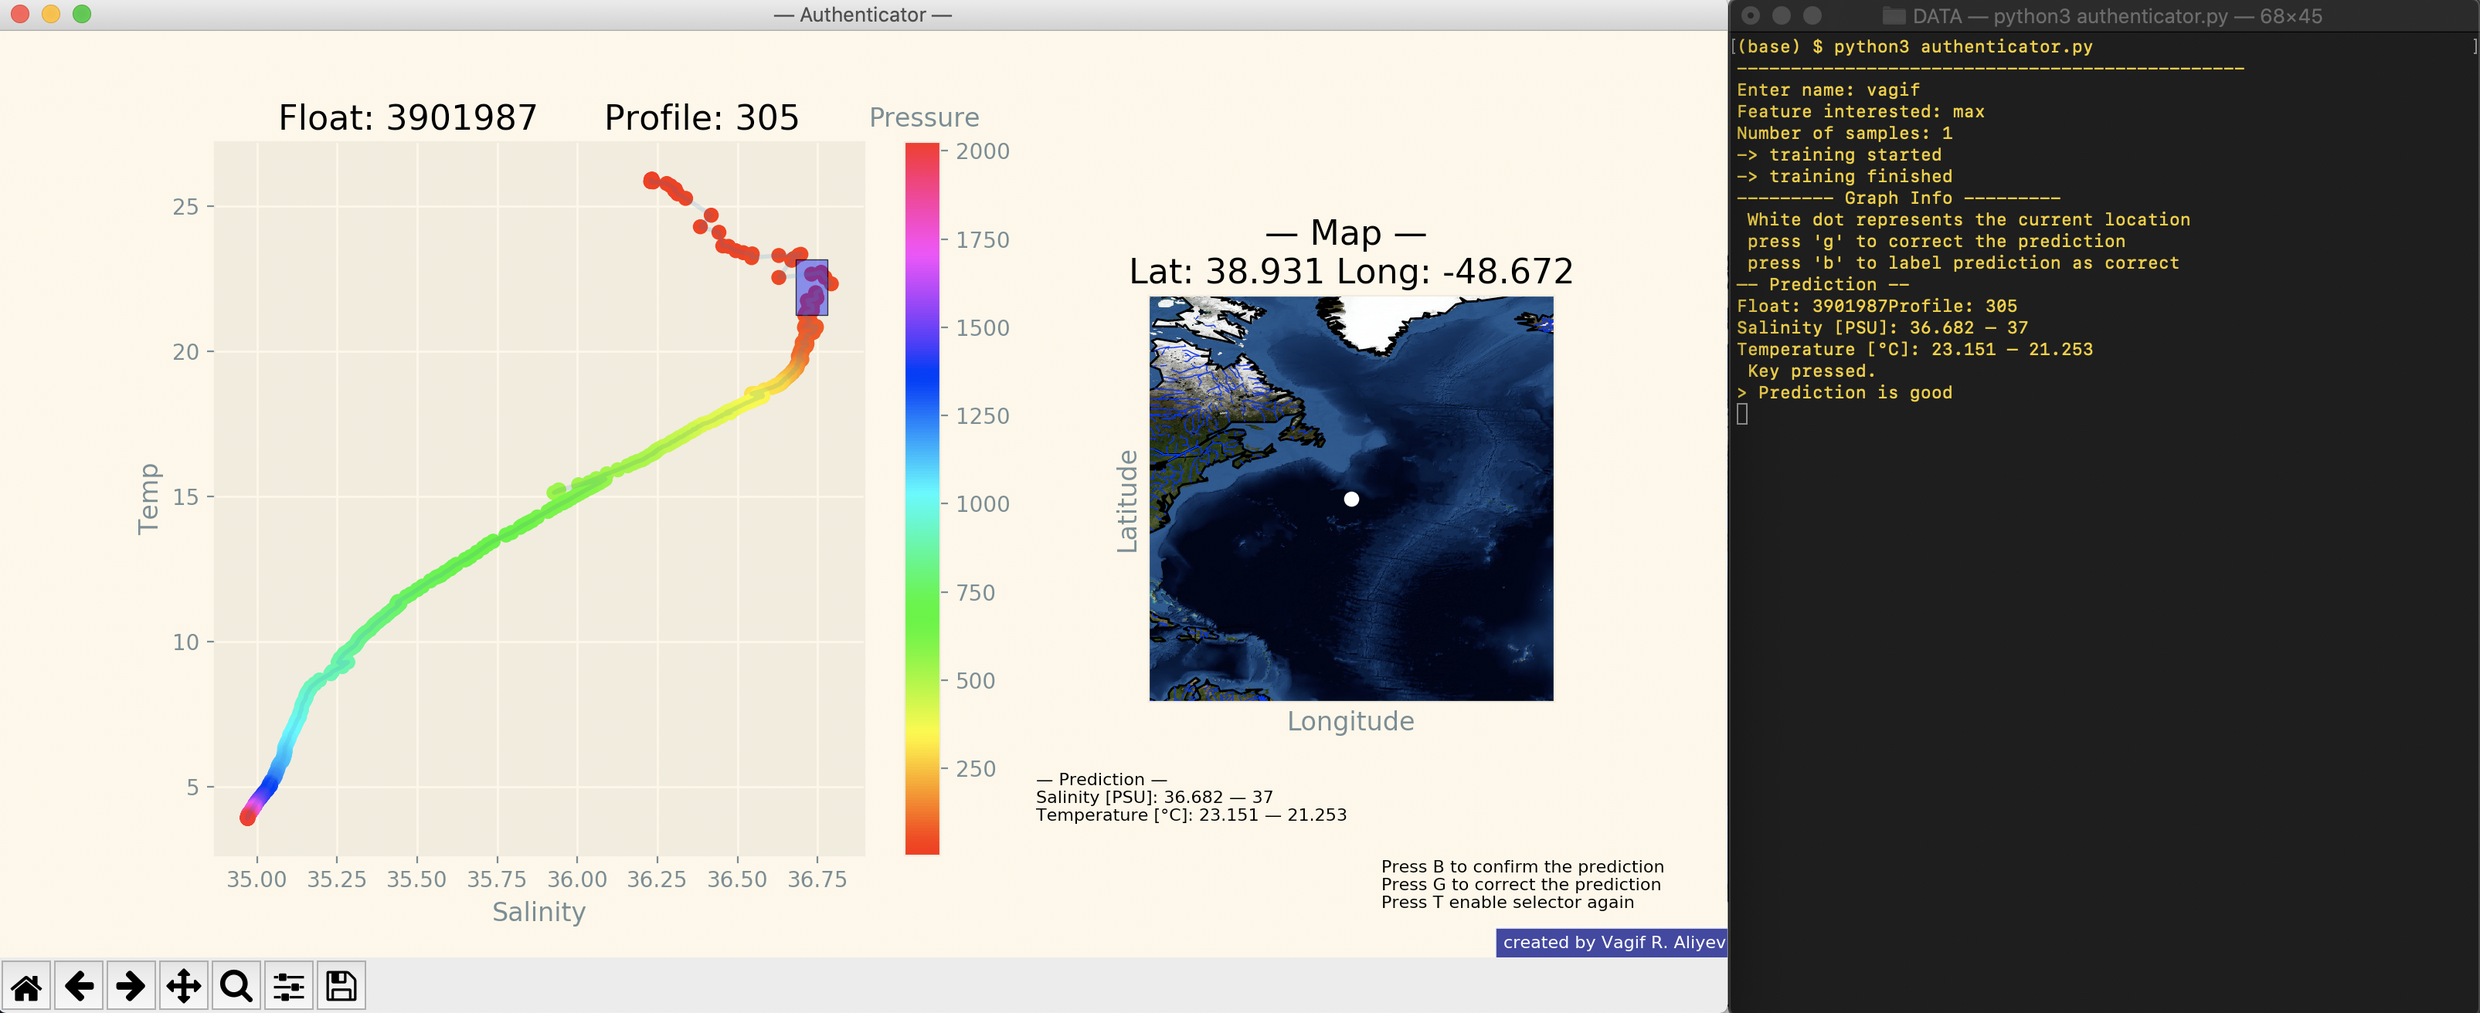
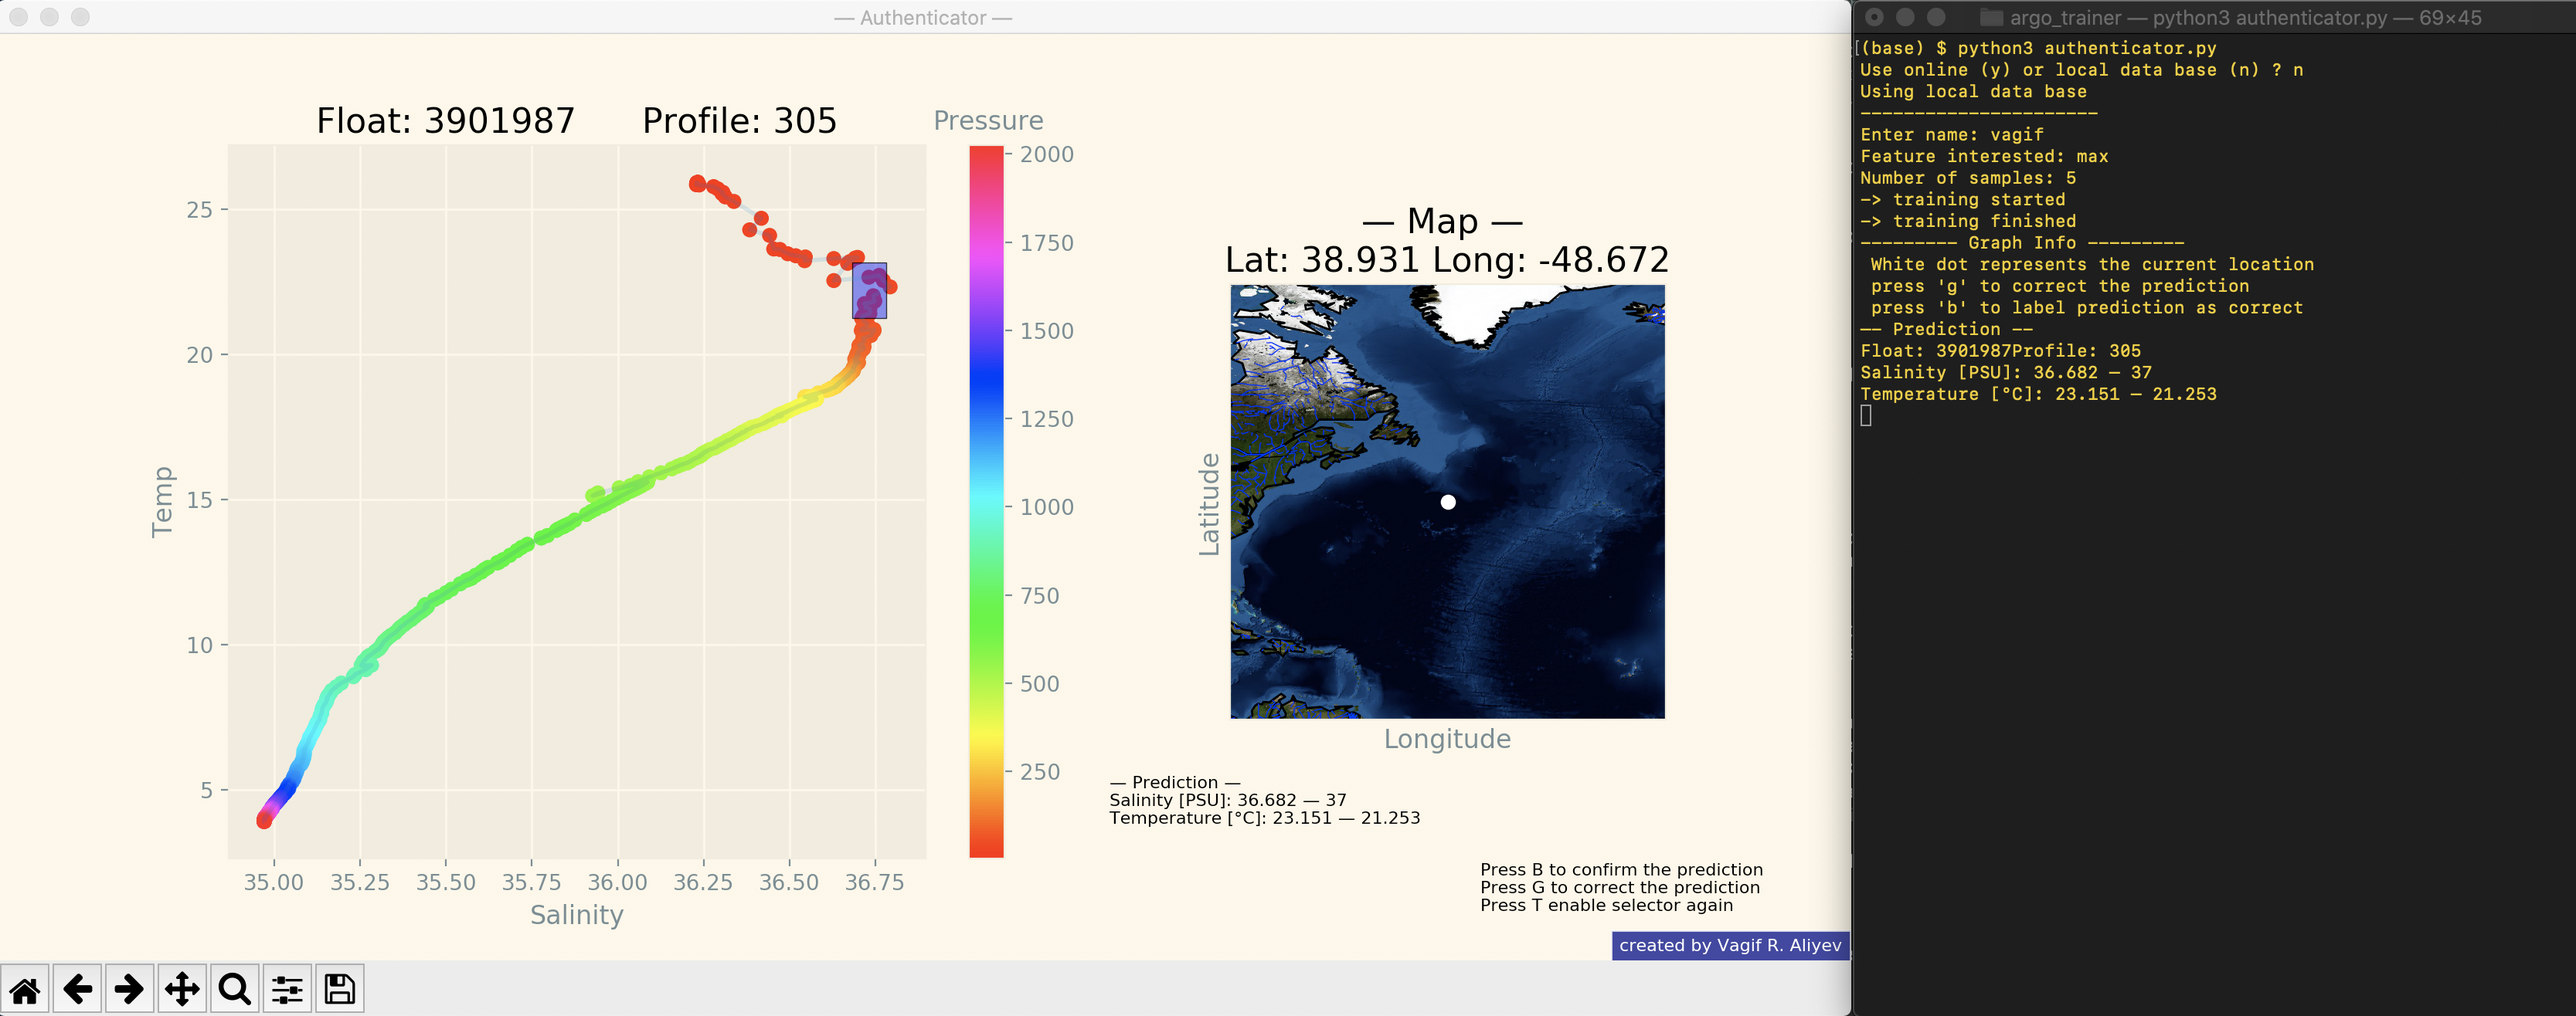
last

diff --git a/authenticator.py b/authenticator.py
@@ -13,11 +13,32 @@ import glob # get file names
 from matplotlib import style
 from pandas.api.types import is_numeric_dtype
 
+online = None
+onlinee = input('Use online (y) or local data base (n) ? ')
+
+if onlinee == 'y':
+    print("Using online data base")
+    online = True 
+else:
+    print("Using local data base")
+    online = False 
+    print("----------------------")
+
+
+#if online requested use argopy
+if online == True:
+    print("--------ARGOPY---------")
+    #only importing library if online requested by user 
+    from argopy import DataFetcher as ArgoDataFetcher
+    argo_loader = ArgoDataFetcher()
+    print("-----------------------")
+
 
 style.use("Solarize_Light2")
 
 colour = None
 feature = None
+
 
 def line_select_callback(eclick, erelease):
     'eclick and erelease are the press and release events'
@@ -63,6 +84,7 @@ def de_normalize(array, norm):
 # get avarage normalized values 
 def train(feature):
     # USER SELECTION DATA
+    global online 
     print("-> training started")
 
     path = r'./laballed_data/' # use your path
@@ -93,22 +115,34 @@ def train(feature):
 
         df_normie = pd.DataFrame(columns=['x1', 'x2', 'y1', 'y2'])
         path = r'./argo_data/' # use your path
-
         for i in range(len(df_y.index)):
-            data = pd.read_csv(path+(str(argos[i])+".csv")) #access right float
+            #access the random float  from database
+            if online == False:
+                data = pd.read_csv(path+(str(argos[i])+".csv")) #access right float 
+            if online == True:
+                #access certain data and profile 
+                ds = argo_loader.float(int(argos[i])).to_xarray()
+                #conver to pandas
+                data = ds.to_dataframe()
+
+                # entries with qc flag of 1 for Pressure and Temo
+                # if not 1, remove row
+                data = data[data.PSAL_QC == 1]
+                data = data[data.TEMP_QC == 1]
 
             data = data.loc[data['CYCLE_NUMBER'] == profiles[i]] # access right profile
-
             #normalize the values between -1 and 1 
             TEMP = data[['TEMP']].to_numpy()
             PSAL = data[['PSAL']].to_numpy()
 
-            x1 = normalize(PSAL, df_y['x1'][i])
-            x2 = normalize(PSAL, df_y['x2'][i])
-            y1 = normalize(TEMP, df_y['y1'][i])
-            y2 = normalize(TEMP, df_y['y2'][i])
+            #if data exists 
+            if data.empty == False:
+                x1 = normalize(PSAL, df_y['x1'][i])
+                x2 = normalize(PSAL, df_y['x2'][i])
+                y1 = normalize(TEMP, df_y['y1'][i])
+                y2 = normalize(TEMP, df_y['y2'][i])
 
-            df_normie = df_normie.append({'x1': x1, 'x2': x2, 'y1': y1, 'y2': y2},ignore_index=True)  
+                df_normie = df_normie.append({'x1': x1, 'x2': x2, 'y1': y1, 'y2': y2},ignore_index=True)  
 
         x_1 = df_normie["x1"].mean()
         x_2 = df_normie["x2"].mean()
@@ -141,19 +175,11 @@ def check_inrange(df,x1,x2,y2,y1):
 
     # only select values that are where the temp values lie
     df_c = df[df['TEMP'].between(y2, y1)]
-    # print(df_c)
-
-    # print(str(y1)+"--"+str(y2))
-    # print(str(x1)+"++"+str(x2))
 
     check_temp = df_c['TEMP'].between(y2,y1,inclusive=False)
     check_psal = df_c['PSAL'].between(x1,x2,inclusive=False)
-    #print(str(x1)+'+++'+str(x2))
-    # print((check_temp == True).any())
-    # print((check_psal == True).any())
 
     if not (check_temp == True).any() == True & (check_psal == True).any() == True :
-        #print("HI")
         df1 = df_iqr(0.25, 0.75, df, ['PSAL','TEMP'])
         psal1 = df['PSAL']
         temp1 = df['TEMP']
@@ -164,7 +190,6 @@ def check_inrange(df,x1,x2,y2,y1):
         check_temp = df_c['TEMP'].between(y2,y1,inclusive=False)
         check_psal = df_c['PSAL'].between(x1,x2,inclusive=False)
         if not (check_temp == True).any() == True & (check_psal == True).any() == True :
-            #print("HELLO")
             df2 = df_iqr(0.2, 0.8, df, ['PSAL','TEMP'])
             psal2 = df2['PSAL']
             temp2 = df2['TEMP']
@@ -216,13 +241,12 @@ def main():
     df_main = pd.DataFrame(columns=['Feature','Float', 'Profile', 'Colour', 'x1', 'x2', 'y1', 'y2','lat', 'long'])
 
     # will create a data set 
-    print('-----------------------------------------------')
     user = input("Enter name: ")
 
     #print("Welcome "+ user)
     feat = input("Feature interested: ")
     gen = input("Number of samples: ")
-
+    
     global x_1, x_2, y_1 ,y_2
     
     x_1, x_2, y_1 ,y_2, feat = train(feat)
@@ -248,17 +272,30 @@ def main():
 
         #select random float float 
         argo = random.choice(list_float)
-
-        
+        argo = 3901987
         #access the random float  from database
-        argo_float = pd.read_csv("./argo_data/"+str(argo)+'.csv') 
+        if online == False:
+            argo_float = pd.read_csv("./argo_data/"+str(argo)+'.csv') 
+        if online == True:
+            argo_loader = ArgoDataFetcher()
+
+            #access certain data and profile 
+            ds = argo_loader.float(argo).to_xarray()
+            #conver to pandas
+            argo_float = ds.to_dataframe()
+
+            # entries with qc flag of 1 for Pressure and Temo
+            # if not 1, remove row
+            argo_float = argo_float[argo_float.PSAL_QC == 1]
+            argo_float = argo_float[argo_float.TEMP_QC == 1]
+
 
         #recieve a list of profiles in the float
         list_prof = list(dict.fromkeys(argo_float['CYCLE_NUMBER']))
 
         #randomly select a profile 
         prof = random.choice(list_prof)
-
+        prof = 305
         #access the requested profile number datas 
         df = argo_float.loc[argo_float['CYCLE_NUMBER'] == prof]
 

diff --git a/labeler.py b/labeler.py
@@ -14,6 +14,7 @@ import os
 style.use("Solarize_Light2")
 
 colour = None
+online = None
 
 def line_select_callback(eclick, erelease):
     'eclick and erelease are the press and release events'
@@ -87,9 +88,14 @@ def main():
     # will create a data set 
     print('-----------------------------------------------')
     user = input("Enter name: ")
-    #print("Welcome "+ user)
     feat = input("Feature interested: ")
     gen = input("Number of samples: ")
+
+    online = False
+    onlinee = input('Use online (y) or local data base (n) ? ')
+
+    if onlinee == 'y':
+        online = True 
 
     print('--------- Graph Info ---------')
     print(" White dot represents the current location \n press 'g' to label data as good \n press 'r' to label data poor")
@@ -117,7 +123,25 @@ def main():
         argo = random.choice(list_float)
 
         #access the random float  from database
-        argo_float = pd.read_csv("./argo_data/"+str(argo)+'.csv') 
+        if online == False:
+            argo_float = pd.read_csv("./argo_data/"+str(argo)+'.csv') 
+        if online == True:
+            print("--------ARGOPY---------")
+            #only importing library if online requested by user 
+            from argopy import DataFetcher as ArgoDataFetcher
+            print("-----------------------")
+
+            argo_loader = ArgoDataFetcher()
+
+            #access certain data and profile 
+            ds = argo_loader.float(argo).to_xarray()
+            #conver to pandas
+            argo_float = ds.to_dataframe()
+
+            # entries with qc flag of 1 for Pressure and Temo
+            # if not 1, remove row
+            argo_float = argo_float[argo_float.PSAL_QC == 1]
+            argo_float = argo_float[argo_float.TEMP_QC == 1]
 
         #recieve a list of profiles in the float
         list_prof = list(dict.fromkeys(argo_float['CYCLE_NUMBER']))
@@ -169,8 +193,6 @@ def main():
         plt.connect('key_press_event', toggle_selector)
 
         # basemap mapping
-        # t2 = time.time()
-
         ax2 = plt.subplot(gs[1])     
         #load the saved map
         m = pickle.load(open('map.pickle','rb'))

diff --git a/README.md b/README.md
@@ -10,13 +10,13 @@ Having access to more information is beneficial, however it is difficult to go n
 
 The software created provides automated method of creating a local database for argo data, visual- ization platform for graphical data and geographical mapping of sensor locations. Most importantly, allows the users to freely label data by interacting with graphs via multiple tools such as selector, zooming, panning and saving. Coding has been implemented in a modular way, thus user can insert their own prediction algorithms easily, observe its results through authenticator and further provide more training data till satisfactory results have been achieved. The final software is a product of constant user feed-back provided, matching the needs of researches in oceanography field. Before the publication of this software, there was no platform or mechanism to record knowledge of studies as data as there was no defined architecture to learn from each others analysis other than publication. To combat that problem, the main goal of the project is to provide a platform for researches across the field to share their data analysis and learn from each other in an interactive way.
 
-Please read [report.pdf](https://github.com/vagifaliyev/argo_trainer/blob/master/latexproj.pdf) for more information on code of conduct, development stages and algorthims.
+Please read [report.pdf](https://github.com/vagifaliyev/argo_trainer/blob/master/report.pdf) for more information on code of conduct, development stages and algorthims.
 
-## [retrive.py](https://github.com/vagifaliyev/argo_trainer/blob/master/argo_data/retrive.py)
+## retrive.py
 
 With the help of argo.py, the downloading of the data has been automated using a script. No other argo related piece of research has been used. Since the data-set of available argo floats is very large, the user can specify which exact float data they would like to download and work on. If any problem occurs, such as due to corrupted files, in successfully downloading the data a notification pops up to notify the user of the argo float id that caused the problem. The addition to the list can be made and already downloaded files will not be attempted to be downloaded again. 
 
-## [labeler.py](https://github.com/vagifaliyev/argo_trainer/blob/master/labeler.py)
+## labeler.py
 
 Data labelling allows the user to create a dataset of the features they are interested in. At startup, user can enter details of their name, feature interested in and number of samples they wish to examine.
 
@@ -26,7 +26,7 @@ The feature interested can then be selected using a rectangular tool which is ac
 
 Once the requested sample size has been reached, the user entries are presented to the user and given an option to name the csv file where the selections will be stored for later usage in training.
 
-## [authenticator.py](https://github.com/vagifaliyev/argo_trainer/blob/master/authenticator.py)
+## authenticator.py
 
 Authenticator allows the user to observe the prediction made by the algorithm. User can approve the prediction as correct by pressing the "B" key thus increasing the training data set or correct the prediction by making a new selection as previously described. Programme has been writen in a modular way so that the user can replace the predictive algorithm with their own. Once the user is satisfied with the predictions, the training is concluded. 
 
